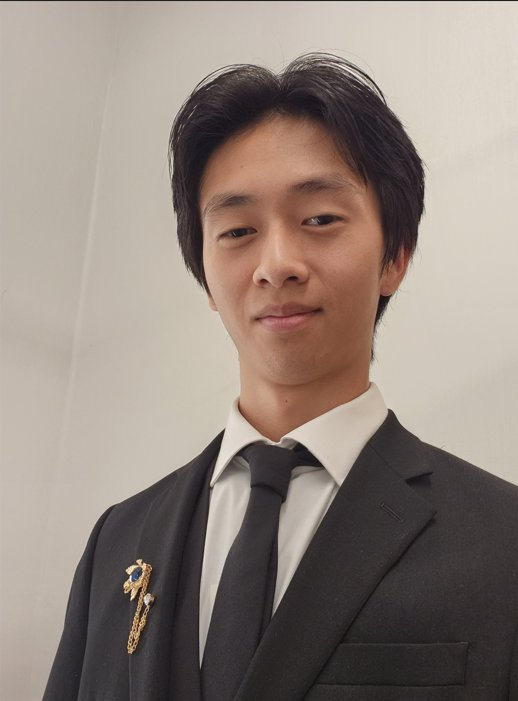
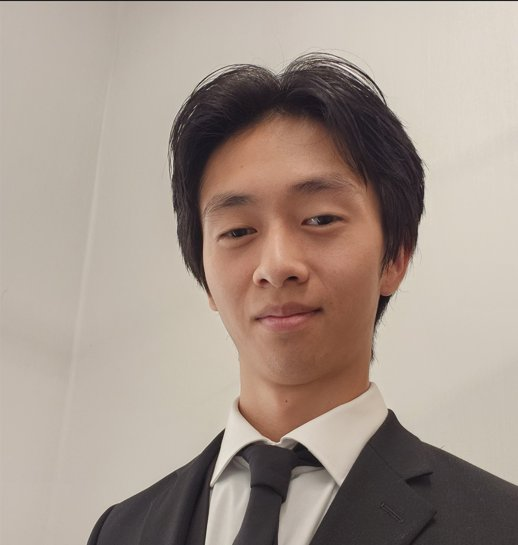
New headshot; show About details as bullet lists

diff --git a/index.html b/index.html
@@ -86,9 +86,9 @@
       <h4>Education</h4>
       <ul><li>B.S. Human Centered Design &amp; Engineering, University of Washington, expected June 2028</li><li>A.A. Arts &amp; Sciences, Bellevue College, 2024</li></ul>
       <h4>Methods</h4>
-      <ul><li>Field observation · Semi-structured interviews · Surveys · Qualitative coding · Affinity diagramming · Personas &amp; journey maps</li></ul>
+      <ul><li>Field observation</li><li>Semi-structured interviews</li><li>Surveys</li><li>Qualitative coding</li><li>Affinity diagramming</li><li>Personas &amp; journey maps</li></ul>
       <h4>Tools</h4>
-      <ul><li>Figma / FigJam · Onshape (CAD) · ATLAS.ti · Tableau · Excel · Python · Flask · Google Forms</li></ul>
+      <ul><li>Figma / FigJam</li><li>Onshape (CAD)</li><li>ATLAS.ti</li><li>Tableau</li><li>Excel</li><li>Python</li><li>Flask</li><li>Google Forms</li></ul>
     </div>
     </div>
   </div>

diff --git a/style.css b/style.css
@@ -57,11 +57,11 @@ h2.section{font-family:var(--serif);font-weight:500;font-size:34px;letter-spacin
 .about{display:grid;grid-template-columns:1.3fr 1fr;gap:56px}
 .about p{margin-bottom:16px}
 .side{display:flex;flex-direction:column;gap:22px}
-.headshot{width:100%;max-width:300px;aspect-ratio:4/5;object-fit:cover;object-position:center 30%;border-radius:16px;border:1px solid var(--line)}
+.headshot{width:100%;max-width:300px;height:auto;border-radius:16px;border:1px solid var(--line)}
 .facts{background:var(--card);border:1px solid var(--line);border-radius:16px;padding:26px 28px}
 .facts h4{font-size:13px;letter-spacing:.12em;text-transform:uppercase;color:var(--muted);margin:18px 0 8px}
 .facts h4:first-child{margin-top:0}
-.facts ul{list-style:none}
+.facts ul{list-style:disc;padding-left:20px}
 .facts li{padding:3px 0;font-size:15px}
 
 /* skills */
